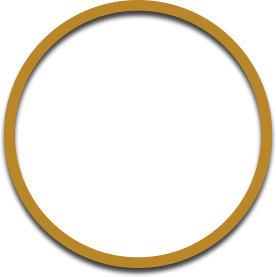
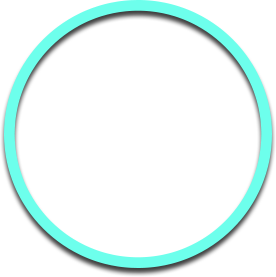
Graphics + More
Uploaded new icons and splash page. Added Xml sheet for tab 2

Changed region(s): [[0.0, 0.0, 0.9855, 0.9819]]

diff --git a/assets/main.qml b/assets/main.qml
@@ -29,7 +29,7 @@ TabbedPane {
                 onTriggered: {
                     console.log("Info: ActionItem : onTriggered");
                     // For InfoPage, we will use Sheet
-                    infoSheet.open();
+                    //infoSheet.open();
                 }
             }
         ]
@@ -140,25 +140,55 @@ TabbedPane {
                     }
 
         ImageButton {
-            
         
         defaultImageSource: "images/circle.png"
         id: playareafour
-        
         verticalAlignment: VerticalAlignment.Center
         horizontalAlignment: HorizontalAlignment.Center
-        
-        } // playarea four end
-        
-        }}}}
+        } 
+        }
+        }
+        }
+        }
     Tab { //Second tab
         title: qsTr("Friends") + Retranslate.onLocaleOrLanguageChanged
         imageSource: "images/friends.png"
         Page {
             Container {
-                Label {
-                    text: qsTr("Second tab") + Retranslate.onLocaleOrLanguageChanged
+                
+             Label {
+                text: "Friends"
+                textStyle.color: Color.create("#ffffff")
+                textStyle.fontSize: FontSize.Large
+                verticalAlignment: VerticalAlignment.Center
+                horizontalAlignment: HorizontalAlignment.Center
+                bottomMargin: 200.0
+                textStyle.fontStyle: FontStyle.Italic
+            }
+            background: Color.create("#333333")
+                
+Container {
+    
+
+            ListView {
+                dataModel: XmlDataModel {
+                            id: friendslist
+                        source: "asset:///friendslist.xml"
+                     }
+                        scrollIndicatorMode: ScrollIndicatorMode.ProportionalBar
+                        flickMode: FlickMode.Default
+                        layout: FlowListLayout {
+                            headerMode: ListHeaderMode.Overlay
+
+                        }
+                        multiSelectHandler.status: ""
+                        layoutProperties: FlowListLayoutProperties {
+
+                        }
+                    }
+
                 }
+
             }
         }
     } //End of second tab

diff --git a/assets/InfoPage.qml b/assets/InfoPage.qml
@@ -12,11 +12,11 @@
  * See the License for the specific language governing permissions and
  * limitations under the License.
  */
-import bb.cascades 1.2
+import bb.cascades 1.0
 
 
 Page {
-    id: settings
+    id: infoPage
 
     // Custom signal for notifying that this page needs to be closed
     signal done ()
@@ -34,13 +34,10 @@ Page {
     }
     
     Container {
-       
-            Label {
-               
-                text: "Settings Page..."
-                horizontalAlignment: HorizontalAlignment.Center
-            }
-    } // Container DockLayout
     
+          
+        
+        } // Container StackLyaout
+     // Container DockLayout
     
 } // Page

diff --git a/translations/FitMe.ts b/translations/FitMe.ts
@@ -13,10 +13,5 @@
         <source>Friends</source>
         <translation type="unfinished"></translation>
     </message>
-    <message>
-        <location filename="../assets/main.qml" line="160"/>
-        <source>Second tab</source>
-        <translation type="unfinished"></translation>
-    </message>
 </context>
 </TS>
